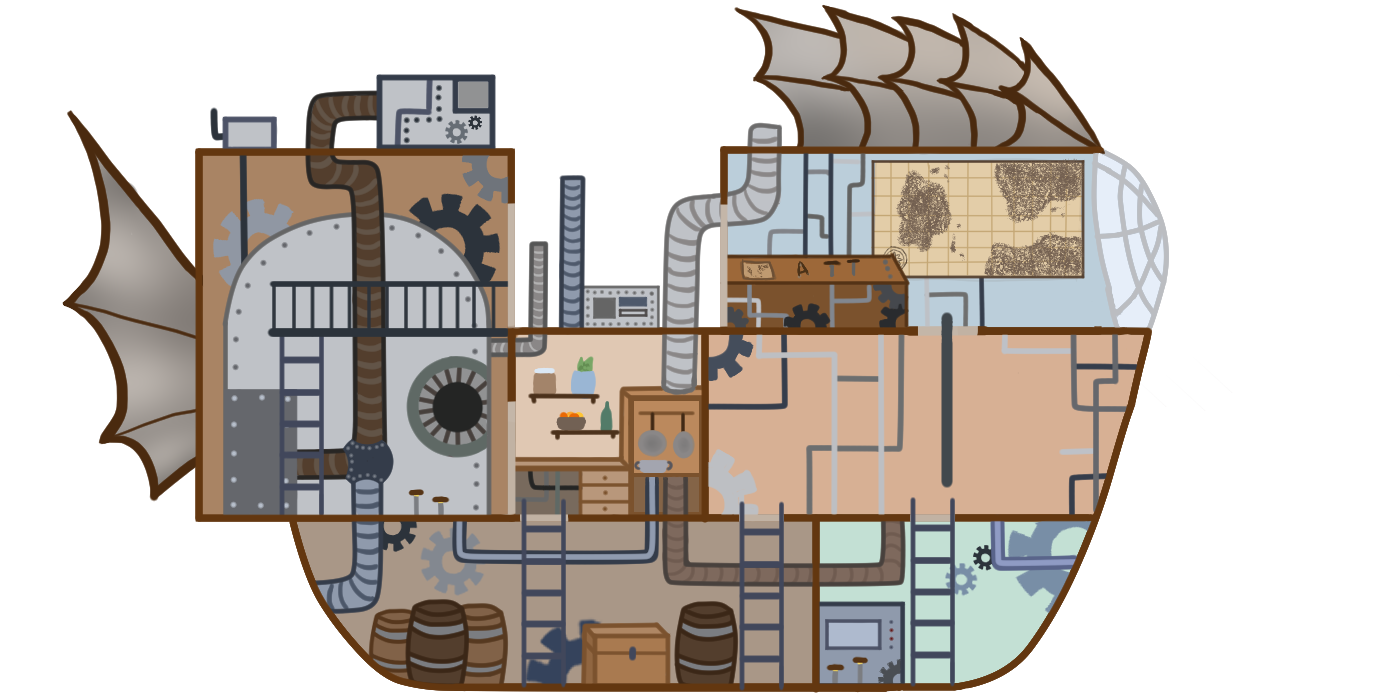
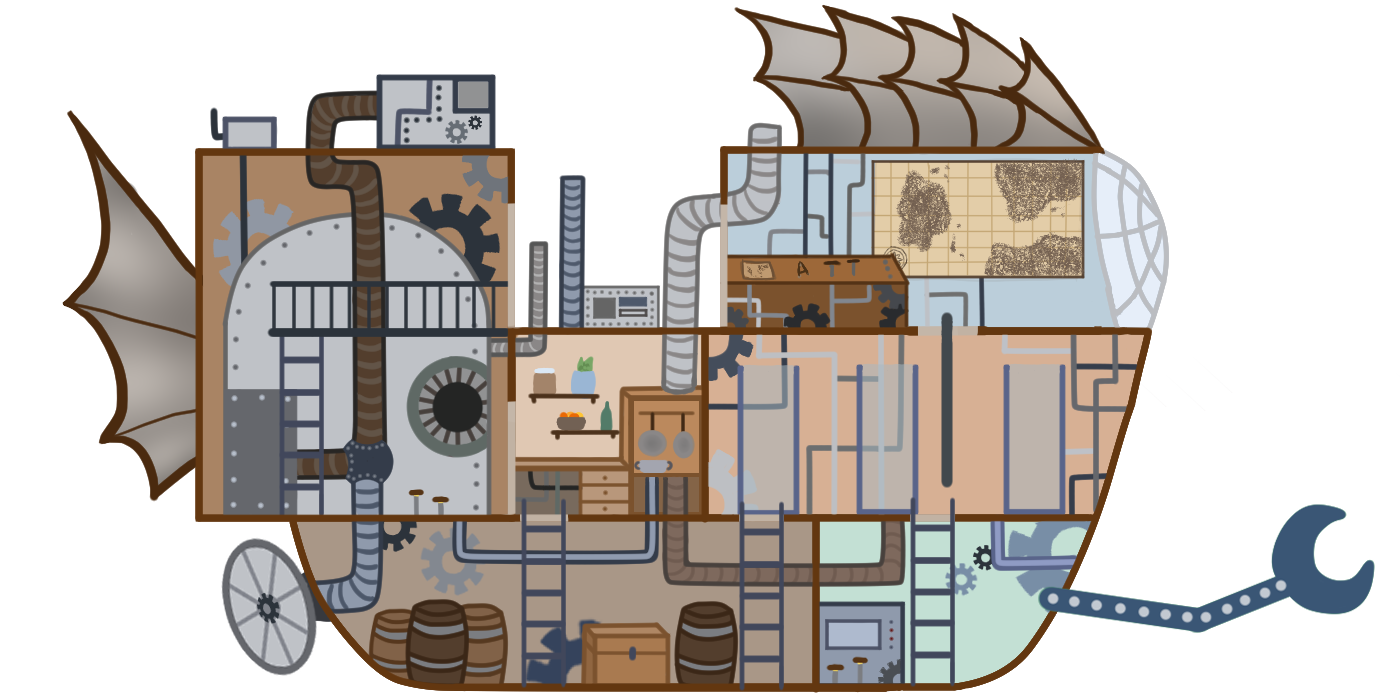
sprite ok + shelves

diff --git a/js/main.js b/js/main.js
@@ -51,6 +51,10 @@ var snd1;
 var soundTakeItem;
 var soundMusic;
 
+var shelvesStick;
+var shelvesWood;
+var shelvesIron;
+
 function success(pos) {
     getWeather(pos.coords.latitude, pos.coords.longitude);
 }
@@ -116,9 +120,9 @@ document.addEventListener("DOMContentLoaded", function () {
         document.addEventListener("keyup", captureRelacheToucheClavier);
 
         repaireKits = [new RepareKit(new Position(413,330),material.EXTINGUISHER)];
-        shelveWood = new Shelve(new Position(750, 520), material.WOOD, 0);
-        shelveMetal = new Shelve(new Position(870, 520), material.IRON, 0);
-        shelveStick = new Shelve(new Position(1020, 520), material.STICK, 0);
+        shelveWood = new Shelve(new Position(737, 515), material.WOOD, 0);
+        shelveMetal = new Shelve(new Position(857, 515), material.IRON, 0);
+        shelveStick = new Shelve(new Position(1005, 515), material.STICK, 0);
         shelves = [shelveWood, shelveStick, shelveMetal];
 
         perso1 = new Perso(350, 520 - 120, 1);
@@ -142,6 +146,76 @@ document.addEventListener("DOMContentLoaded", function () {
             new Anomaly(new Position(1100, 320), material.STICK, type.HELM),
         ];
         navigator.geolocation.getCurrentPosition(success, error, options);
+
+        //sprite jauge STICK
+        spriteShelveStick = new Array(7);
+		spriteShelveStick[0] = new Image();
+		spriteShelveStick[0].src = "images/jauge_baton_0.png";
+
+		spriteShelveStick[1] = new Image();
+		spriteShelveStick[1].src = "images/jauge_baton_1.png";
+
+		spriteShelveStick[2] = new Image();
+		spriteShelveStick[2].src = "images/jauge_baton_2.png";
+
+		spriteShelveStick[3] = new Image();
+		spriteShelveStick[3].src = "images/jauge_baton_3.png";
+
+		spriteShelveStick[4] = new Image();
+		spriteShelveStick[4].src = "images/jauge_baton_4.png";
+
+		spriteShelveStick[5] = new Image();
+		spriteShelveStick[5].src = "images/jauge_baton_5.png";
+
+		spriteShelveStick[6] = new Image();
+		spriteShelveStick[6].src = "images/jauge_baton_6.png";
+
+		//sprite jauge WOOD
+        spriteShelveWood = new Array(7);
+		spriteShelveWood[0] = new Image();
+		spriteShelveWood[0].src = "images/jauge_planche_0.png";
+
+		spriteShelveWood[1] = new Image();
+		spriteShelveWood[1].src = "images/jauge_planche_1.png";
+
+		spriteShelveWood[2] = new Image();
+		spriteShelveWood[2].src = "images/jauge_planche_2.png";
+
+		spriteShelveWood[3] = new Image();
+		spriteShelveWood[3].src = "images/jauge_planche_3.png";
+
+		spriteShelveWood[4] = new Image();
+		spriteShelveWood[4].src = "images/jauge_planche_4.png";
+
+		spriteShelveWood[5] = new Image();
+		spriteShelveWood[5].src = "images/jauge_planche_5.png";
+
+		spriteShelveWood[6] = new Image();
+		spriteShelveWood[6].src = "images/jauge_planche_6.png";
+
+
+		//sprite jauge METAL
+        spriteShelveIron = new Array(7);
+		spriteShelveIron[0] = new Image();
+		spriteShelveIron[0].src = "images/jauge_metal_0.png";
+
+		spriteShelveIron[1] = new Image();
+		spriteShelveIron[1].src = "images/jauge_metal_1.png";
+
+		spriteShelveIron[2] = new Image();
+		spriteShelveIron[2].src = "images/jauge_metal_2.png";
+
+		spriteShelveIron[3] = new Image();
+		spriteShelveIron[3].src = "images/jauge_metal_3.png";
+
+		spriteShelveIron[4] = new Image();
+		spriteShelveIron[4].src = "images/jauge_metal_4.png";
+
+		spriteShelveIron[5] = new Image();
+		spriteShelveIron[5].src = "images/jauge_metal_5.png";
+
+		spriteShelveIron[6] = new Image();
+		spriteShelveIron[6].src = "images/jauge_metal_6.png";
 
         snd1 = new Audio();
         soundTakeItem = new Sound("sound/arrow4.mp3");
@@ -446,11 +520,23 @@ document.addEventListener("DOMContentLoaded", function () {
     };
 
     drawShelve = function () {
-        ctx.strokeStyle = '#3f36e5';
-        ctx.fillStyle = '#3f36e5';
+        
         for (const shelve of shelves) {
-            ctx.fillRect(shelve.position.x, shelve.position.y - shelve.height, shelve.width, shelve.height);
+        	var nb = shelve.nbMaterialKit;
+        	switch(shelve.materialType){
+        		case material.WOOD :
+        			ctx.drawImage(spriteShelveWood[nb], shelve.position.x, shelve.position.y - shelve.height, shelve.width, shelve.height)
+        		break;
+        		case material.IRON :
+        			ctx.drawImage(spriteShelveIron[nb], shelve.position.x, shelve.position.y - shelve.height , shelve.width, shelve.height)
+        		break;
+        		case material.STICK :
+        			ctx.drawImage(spriteShelveStick[nb], shelve.position.x, shelve.position.y - shelve.height, shelve.width, shelve.height)
+        		break;
+        	}
+ 
         }
+
     };
 
     drawRepareKit = function (time) {

diff --git a/js/shelve.js b/js/shelve.js
@@ -1,10 +1,15 @@
 class Shelve {
+
+    nbMaterialKit;
+    materialType;
+
     constructor(position, materialType, nbMaterialKit) {
         this.position = position;
         this.materialType = materialType;
         this.nbMaterialKit = nbMaterialKit;
-        this.width = 20;
-        this.height = 70;
+        this.width = 65;
+        this.height = 160;
+
     }
 
     takeItem(personage) {
@@ -18,11 +23,20 @@ class Shelve {
     }
 
     addItem() {
+        console.log(this.nbMaterialKit);
         if (this.nbMaterialKit < 6) {
             this.nbMaterialKit++;
             return true;
         }
         return false;
+    }
+
+    get nbMaterialKit(){
+        return this.nbMaterialKit;
+    }
+
+    get materialType(){
+        return this.materialType;
     }
 
 }

diff --git a/styles/style.css b/styles/style.css
@@ -5,6 +5,23 @@
     font-style: normal;
 }
 
+body {
+    width: 100%;
+    overflow-x: hidden;
+    overflow-y: hidden;
+    height: 100%;
+    background: linear-gradient(to right, rgba(113,206,239,1) 0%, rgba(113,206,239,1) 13%, rgba(33,180,226,1) 51%, rgba(183,222,237,1) 100%);
+}
+
+#title {
+    display: block;
+    margin: auto;
+}
+
+#titleimg {
+    width: 300px;
+}
+
 #menu {
     position: relative;
     width: 1400px;

diff --git a/index.html b/index.html
@@ -10,7 +10,9 @@
 
 <body>
 
-
+	<div id="title">
+		<img id="titleimg" src="images/title.png">
+	</div>
 	<div id="menu">
 		<img id="logo" src="images/logoJeu.png">
 		<div id="contentBtn">
